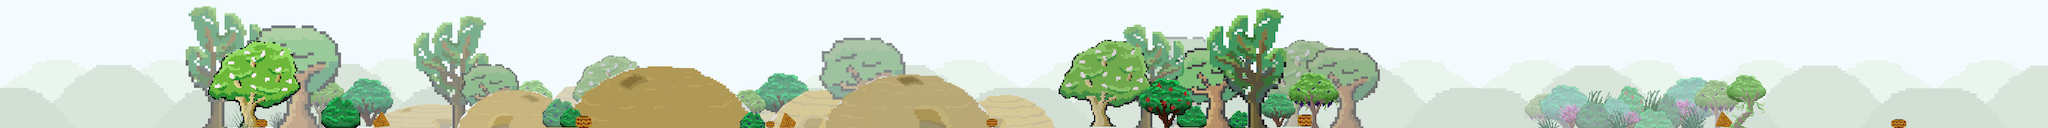
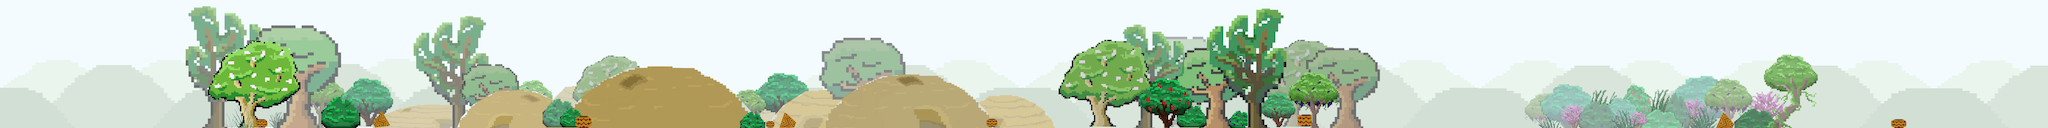
editted builder dialog, editted bg image, fixed end zindex issues with end credits overlays

Changed region(s): [[0.75, 0.4375, 0.9062, 1.0]]

diff --git a/capstone/project/script.js b/capstone/project/script.js
@@ -170,7 +170,7 @@ import kaboom from "https://unpkg.com/kaboom/dist/kaboom.mjs";
 	});
 
 	// character speed
-	const speed = 900;
+	const speed = 400;
 
 	// creating levels and loading sprites into levels
 	const levelSelect = [
@@ -268,7 +268,7 @@ import kaboom from "https://unpkg.com/kaboom/dist/kaboom.mjs";
 					sprite("rye"),
 					area(),
 					anchor("bot"),
-					scale(1),
+					scale(0.6),
 					z(2),
 					offscreen({ hide: true }),
 					"lvl1", "rye"
@@ -699,7 +699,7 @@ import kaboom from "https://unpkg.com/kaboom/dist/kaboom.mjs";
 
 		// custom collide for builder to ensure their quest is done last
 		player.onCollideUpdate('builder', () => {
-			if (fisher.requestComplete === false) {
+			if (weaver.requestComplete === false) {
 					addText('I’m a bit busy right now, you can help the other villagers first.')
 			} else {
 				addText(dialogueShow(globalDataNpc, "builder", builder.dialog));
@@ -710,7 +710,6 @@ import kaboom from "https://unpkg.com/kaboom/dist/kaboom.mjs";
 					} else if (builder.dialog === 2 ) {
 						builder.dialog = 3;
 					} else if (builder.dialog === 0) {
-
 						wait(15, () => {
 							builder.dialog = 1;
 						})
@@ -909,8 +908,6 @@ import kaboom from "https://unpkg.com/kaboom/dist/kaboom.mjs";
 		}
 
 		function createEvents(data) {
-			const dataPoints = Object.keys(data);
-
 			const buttons = document.querySelectorAll('#itemList button');
 
 			for (const button of buttons) {
@@ -960,13 +957,13 @@ import kaboom from "https://unpkg.com/kaboom/dist/kaboom.mjs";
 
 			document.querySelector('#credits').classList.remove('hide');
 			document.querySelector('#credits').style.display = 'grid';
+			document.querySelector('#credits').style.zIndex = '6';
 		})
 
 		const creditsBtn = document.querySelector('#creditsBtn');
 		creditsBtn.addEventListener('click', function() {
-			overlayBg.className = 'hide';
+			overlayBg.style.display = 'none';
 			document.querySelector('#credits').style.display = 'none';
-			document.querySelector('#credits').style.zIndex = '6';
 
 			document.querySelector('#canvas').focus();
 		})

diff --git a/capstone/project/index.html b/capstone/project/index.html
@@ -22,7 +22,7 @@
     <script src="script.js" type="module" defer></script>
     
 
-    <title>Capstone Project</title>
+    <title>Mission: Seal Retrieval</title>
 </head>
 
 <body>
@@ -179,7 +179,7 @@
 
                 <a href="https://yochadehe.gov/heritage/our-story/">Our Story</a><p class="title">The Yocha Dehe Wintun Nation</p>
 
-                <a href="https://yochadehe.gov/heritage/our-story/">Trails, Tribelets, And Territories </a> <p class="title">by Evan Elliott, Adrian Alexis Praetzellis, Christopher Boutin, and M.A. Lloyd</p>
+                <a href="https://www.researchgate.net/figure/Patwin-dance-house-cross-section-adapted-from-McKern-1923163_fig3_265742628">Trails, Tribelets, And Territories </a> <p class="title">by Evan Elliott, Adrian Alexis Praetzellis, Christopher Boutin, and M.A. Lloyd</p>
             </div>
 
             

diff --git a/capstone/project/styles.css b/capstone/project/styles.css
@@ -325,8 +325,6 @@ button:hover {
     grid-template-rows: auto auto auto 0.25fr;
     column-gap: 30px;
 
-
-    /* text-align: left; */
     padding: 0px 15px;
 }
 
@@ -348,10 +346,7 @@ button:hover {
 }
 
 #endBtn {
-    grid-column: 1 /  2;
-
-    align-items: center;
-    text-align: center;
+    z-index: 5;
 }
 
 a {
